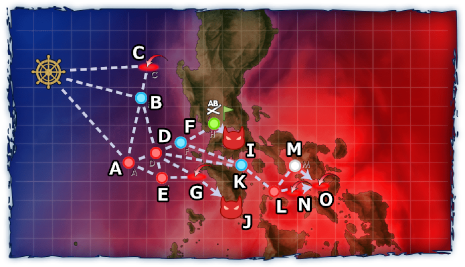
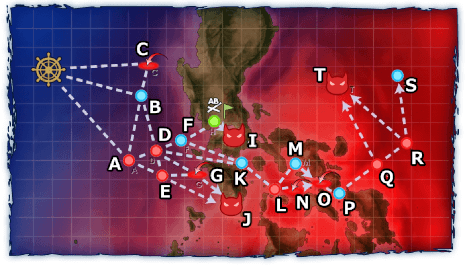
イベント対応

diff --git a/js/data.js b/js/data.js
@@ -1489,20 +1489,23 @@ const ENEMY_PATTERN = [
   { area: 19116, node: "空襲", remarks: "弱", pattern: 8, lv: 1, type: 3, form: 3, radius: 1, enemies: [182, 150, 409, 91], coords: "" },
   { area: 19116, node: "空襲", remarks: "強", pattern: 9, lv: 0, type: 3, form: 3, radius: 1, enemies: [182, 150, 150, 409, 91], coords: "" },
   { area: 19116, node: "空襲", remarks: "弱", pattern: 10, lv: 0, type: 3, form: 3, radius: 1, enemies: [182, 150, 409, 91], coords: "" },
-  { area: 20031, node: "A", remarks: "", pattern: 1, lv: 3, type: 1, form: 2, radius: 4, enemies: [405, 54, 92, 76, 76, 76], coords: "110, 152, 140, 182" },
-  { area: 20031, node: "C", remarks: "", pattern: 1, lv: 3, type: 3, form: 3, radius: 4, enemies: [408, 279, 264, 397, 243, 243], coords: "130, 49, 169, 70" },
-  { area: 20031, node: "D", remarks: "", pattern: 1, lv: 3, type: 1, form: 4, radius: 3, enemies: [238, 71, 71, 71], coords: "142, 135, 172, 165" },
+  { area: 20031, node: "A", remarks: "", pattern: 1, lv: 3, type: 1, form: 2, radius: 4, enemies: [405, 54, 92, 76, 76, 76], coords: "110, 152, 140, 176" },
+  { area: 20031, node: "C", remarks: "", pattern: 1, lv: 3, type: 3, form: 3, radius: 4, enemies: [408, 279, 264, 397, 243, 243], coords: "134, 42, 169, 70" },
+  { area: 20031, node: "D", remarks: "", pattern: 1, lv: 3, type: 1, form: 4, radius: 3, enemies: [238, 71, 71, 71], coords: "147, 128, 174, 158" },
   { area: 20031, node: "E", remarks: "", pattern: 1, lv: 3, type: 1, form: 1, radius: 4, enemies: [396, 95, 95, 92, 76, 76], coords: "152, 170, 170, 202" },
-  { area: 20031, node: "I", remarks: "", pattern: 1, lv: 3, type: 1, form: 1, radius: 3, enemies: [67, 92, 122, 122, 122, 122], coords: "222, 124, 250, 152" },
-  { area: 20031, node: "J", remarks: "前哨", pattern: 1, lv: 3, type: 1, form: 1, radius: 4, enemies: [423, 167, 166, 26, 26, 140], coords: "220, 195, 250, 230" },
-  { area: 20031, node: "J", remarks: "最終", pattern: 2, lv: 3, type: 1, form: 1, radius: 4, enemies: [426, 166, 167, 140, 140, 140], coords: "220, 195, 250, 230" },
-  { area: 20031, node: "L", remarks: "", pattern: 1, lv: 3, type: 1, form: 1, radius: 4, enemies: [361, 361, 140, 140, 140, 140], coords: "264, 185, 287, 215" },
-  { area: 20031, node: "N", remarks: "", pattern: 1, lv: 3, type: 3, form: 3, radius: 5, enemies: [280, 277, 277, 92, 240, 240], coords: "288, 178, 310, 210" },
+  { area: 20031, node: "G", remarks: "", pattern: 1, lv: 3, type: 3, form: 3, radius: 3, enemies: [151, 151, 150], coords: "187, 160, 224, 185" },
+  { area: 20031, node: "I", remarks: "", pattern: 1, lv: 3, type: 1, form: 1, radius: 3, enemies: [67, 92, 122, 122, 122, 122], coords: "222, 121, 250, 152" },
+  { area: 20031, node: "J", remarks: "前哨", pattern: 1, lv: 3, type: 1, form: 1, radius: 4, enemies: [423, 167, 166, 26, 26, 140], coords: "220, 190, 250, 230" },
+  { area: 20031, node: "J", remarks: "最終", pattern: 2, lv: 3, type: 1, form: 1, radius: 4, enemies: [426, 166, 167, 140, 140, 140], coords: "220, 190, 250, 230" },
+  { area: 20031, node: "L", remarks: "", pattern: 1, lv: 3, type: 1, form: 1, radius: 4, enemies: [361, 361, 140, 140, 140, 140], coords: "264, 183, 283, 215" },
+  { area: 20031, node: "N", remarks: "", pattern: 1, lv: 3, type: 3, form: 3, radius: 5, enemies: [280, 277, 277, 92, 240, 240], coords: "285, 178, 310, 210" },
   { area: 20031, node: "O", remarks: "", pattern: 1, lv: 3, type: 3, form: 3, radius: 5, enemies: [408, 280, 277, 277, 243, 243], coords: "313, 170, 340, 200" },
-  { area: 20031, node: "Q", remarks: "", pattern: 1, lv: 3, type: 1, form: 1, radius: 0, enemies: [280, 280, 43, 92, 240, 240], coords: "" },
-  { area: 20031, node: "R", remarks: "", pattern: 1, lv: 3, type: 1, form: 3, radius: 0, enemies: [280, 280, 92, 240, 240, 26], coords: "" },
-  { area: 20031, node: "T", remarks: "前哨", pattern: 1, lv: 3, type: 2, form: 11, radius: 0, enemies: [408, 280, 280, 43, 95, 95, 405, 362, 243, 243, 243, 243], coords: "" },
-  { area: 20031, node: "空襲", remarks: "", pattern: 1, lv: 3, type: 3, form: 3, radius: 1, enemies: [394, 394, 151, 150], coords: "200, 93, 225, 115" },
+  { area: 20031, node: "Q", remarks: "", pattern: 1, lv: 3, type: 1, form: 1, radius: 0, enemies: [280, 280, 43, 92, 240, 240], coords: "368, 156, 396, 189" },
+  { area: 20031, node: "R", remarks: "", pattern: 1, lv: 3, type: 1, form: 3, radius: 0, enemies: [280, 280, 92, 240, 240, 26], coords: "397, 143, 427, 167" },
+  { area: 20031, node: "T", remarks: "前哨", pattern: 1, lv: 3, type: 2, form: 11, radius: 0, enemies: [408, 280, 280, 43, 95, 95, 405, 362, 243, 243, 243, 243], coords: "310, 63, 355, 100" },
+  { area: 20031, node: "T", remarks: "最終", pattern: 2, lv: 3, type: 2, form: 11, radius: 0, enemies: [408, 292, 280, 280, 397, 397, 405, 362, 362, 243, 243, 243], coords: "310, 63, 355, 100" },
+  { area: 20031, node: "空襲", remarks: "強", pattern: 1, lv: 3, type: 3, form: 3, radius: 1, enemies: [394, 394, 151, 150], coords: "200, 93, 225, 115" },
+  { area: 20031, node: "空襲", remarks: "中", pattern: 2, lv: 3, type: 3, form: 3, radius: 1, enemies: [394, 390, 151, 150], coords: "200, 93, 225, 115" },
 ];
 // 制空状態
 const AIR_STATUS = [
